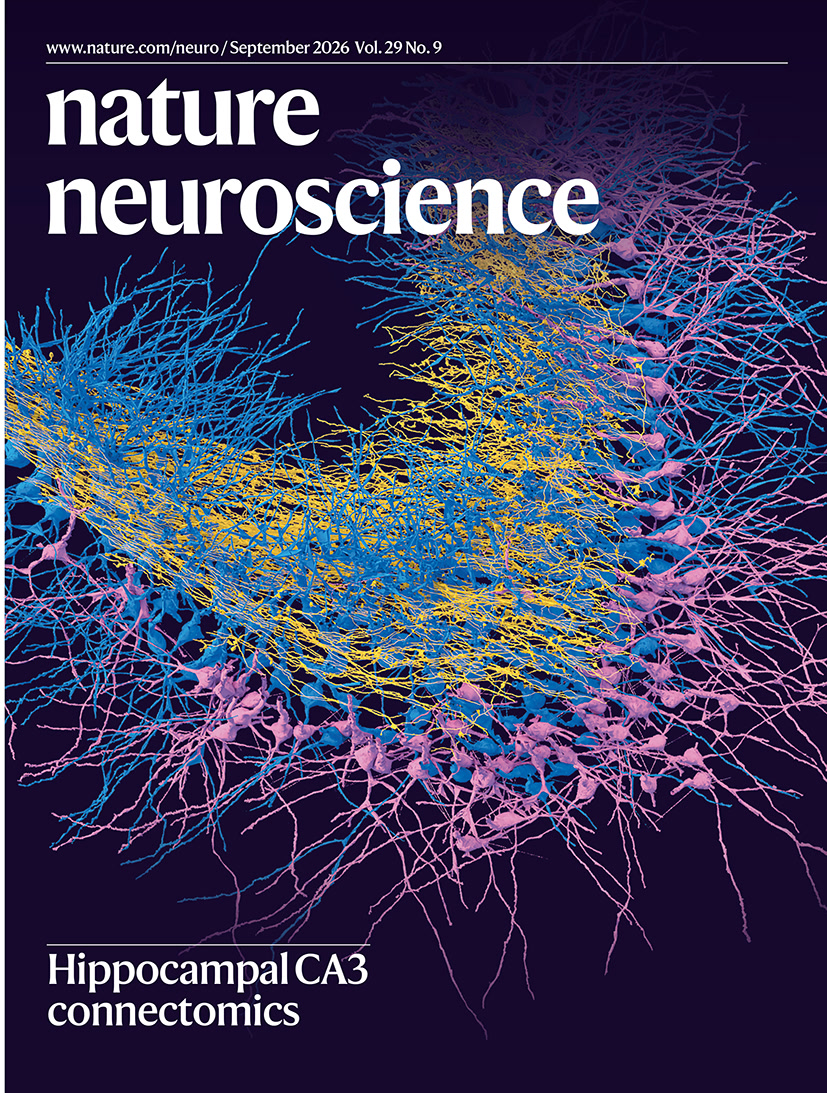
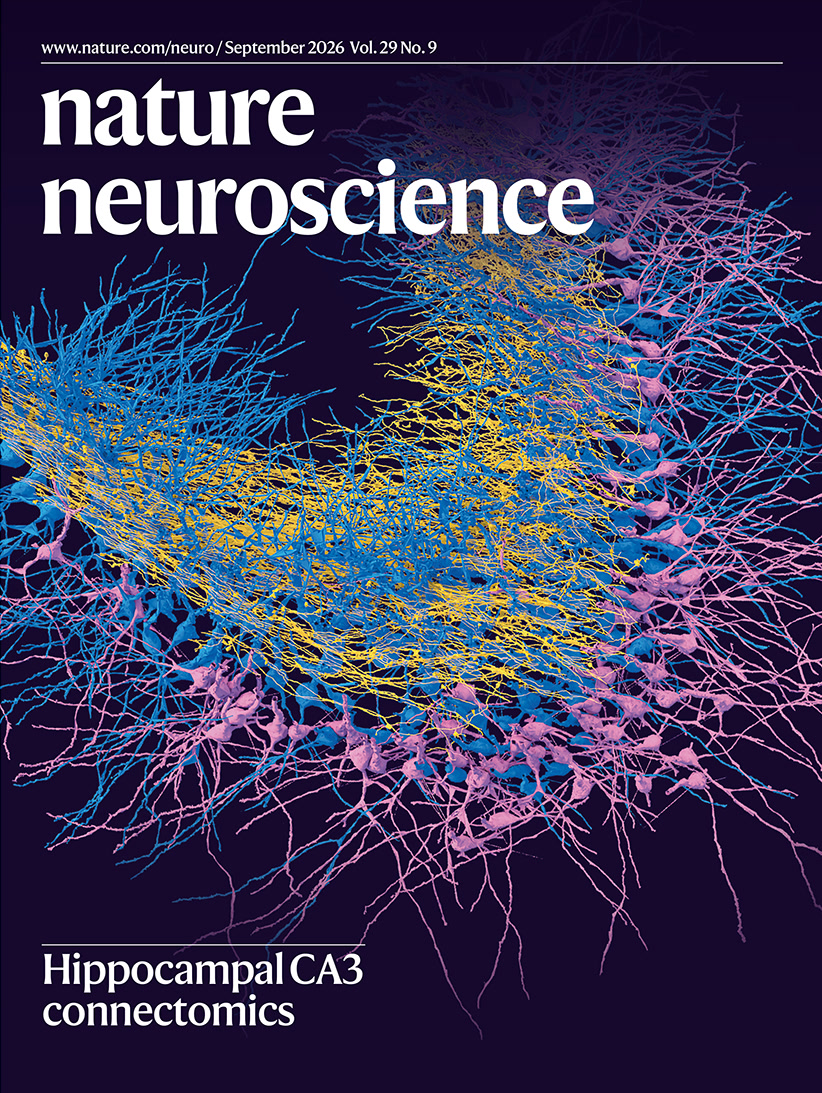
Trim the white strip off the cover's left edge
Nature's own cover file carries a five pixel white column down the left
side. Measured on the source PNG: the first four columns are pure white
and the fifth is half. Cropped off; the image is 822 wide now.

Claude-Session: https://claude.ai/code/session_0145HphXKAW12qAjBJhBKn71

diff --git a/index.html b/index.html
@@ -539,7 +539,7 @@
 <div class="cite" style="margin-top:6px">
     <a class="cover" href="https://www.nature.com/neuro/volumes/29/issues/9"
        title="Nature Neuroscience, September 2026"><img
-       src="images/cover_natneuro_2026_09.jpg" width="827" height="1093"
+       src="images/cover_natneuro_2026_09.jpg" width="822" height="1093"
        alt="Nature Neuroscience, September 2026"></a>
     <div class="txt">
     <span class="t"><a href="https://doi.org/10.1038/s41593-026-02388-9">Hippocampal CA3
